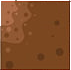
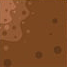
new bricks ready

diff --git a/game.py b/game.py
@@ -56,7 +56,7 @@ class Other(pygame.sprite.Sprite):
 	def show(self):
 		if self.visible:
 			global screen,camera
-			screen.blit(self.imgs[int(self.count/12)],(self.rect.x-camera[0],self.rect.y-camera[1],50,50))
+			screen.blit(self.imgs[int(self.count*len(self.imgs)/60)],(self.rect.x-camera[0],self.rect.y-camera[1],50,50))
 class Wall(pygame.sprite.Sprite):
 	def __init__(self,color,blocks,bricksize):
 		super().__init__()
@@ -70,12 +70,85 @@ class Wall(pygame.sprite.Sprite):
 		self.blocks=blocks
 	def show(self):
 		global screen,camera,bricksize,brickimgs
-		for i in range(self.blocks[2]):
-			for j in range(self.blocks[3]):
-				# found=False
-				# for b in earth:
-				# 	if self.blocks[0]-1>b[0] and self.blocks[0]+self.blocks
-				screen.blit(brickimgs[1],(self.rect.x+i*bricksize-camera[0],self.rect.y+j*bricksize-5-camera[1],bricksize,bricksize+5))
+		if self.blocks[3]==1:
+			if self.blocks[2]==1:
+				screen.blit(brickimgs[14],(self.rect.x+i*bricksize-camera[0],self.rect.y-camera[1],bricksize,bricksize))
+			else:
+				for i in range(self.blocks[2]):
+					if i==0:
+						img=brickimgs[13]
+					elif i==self.blocks[2]-1:
+						img=brickimgs[15]
+					else:
+						img=brickimgs[14]
+					screen.blit(img,(self.rect.x+i*bricksize-camera[0],self.rect.y-camera[1],bricksize,bricksize))
+		else:
+			for i in range(self.blocks[3]):
+				for j in range(self.blocks[2]):
+					img=brickimgs[4]
+					if i==0:
+						img=brickimgs[1]
+						if j==0:
+							img=brickimgs[0]
+							for b in earth:
+								if self.blocks[0]==b[0]+b[2]:
+									if self.blocks[1]==b[1]:
+										img=brickimgs[1]
+									elif self.blocks[1]<b[1]:
+										img=brickimgs[0]
+									else:
+										img=brickimgs[12]
+									break
+						elif j==self.blocks[2]-1:
+							img=brickimgs[2]
+							for b in earth:
+								if self.blocks[0]+self.blocks[2]==b[0]:
+									if self.blocks[1]==b[1]:
+										img=brickimgs[1]
+									elif self.blocks[1]<b[1]:
+										img=brickimgs[2]
+									else:
+										img=brickimgs[9]
+									break
+					elif i==self.blocks[3]-1:
+						if j==0:
+							img=brickimgs[6]
+							for b in earth:
+								if self.blocks[0]==b[0]+b[2]:
+									if self.blocks[1]+self.blocks[3]==b[1]+b[3]:
+										img=brickimgs[7]
+									elif self.blocks[1]+self.blocks[3]>b[1]+b[3]:
+										img=brickimgs[6]
+									else:
+										img=brickimgs[10]
+						elif j==self.blocks[2]-1:
+							img=brickimgs[8]
+							for b in earth:
+								if self.blocks[0]+self.blocks[2]==b[0]:
+									if self.blocks[1]+self.blocks[3]==b[1]+b[3]:
+										img=brickimgs[7]
+									elif self.blocks[1]+self.blocks[3]>b[1]+b[3]:
+										img=brickimgs[8]
+									else:
+										img=brickimgs[7]
+						else:
+							img=brickimgs[7]
+					else:
+						if j==0:
+							img=brickimgs[3]
+							for b in earth:
+								if self.blocks[0]==b[0]+b[2]:
+									if self.blocks[1]+i==b[1]:
+										img=brickimgs[10]
+										break
+						elif j==self.blocks[2]-1:
+							img=brickimgs[5]
+							for b in earth:
+								if self.blocks[0]+self.blocks[2]==b[0]:
+									if self.blocks[1]+i==b[1]:
+										img=brickimgs[11]
+										break
+					screen.blit(img,(self.rect.x+j*bricksize-camera[0],self.rect.y+i*bricksize-camera[1],bricksize,bricksize))
 		# pygame.draw.rect(screen,self.color,[self.rect.x-camera[0],self.rect.y-camera[1],self.rect.width,self.rect.height])
 
 player=Player("main",(255,0,0),60,100)
@@ -95,6 +168,13 @@ for i in range(7):
 	im=pygame.image.load('character'+os.path.sep+'jump'+str(i+1)+'.png')
 	# im=pygame.transform.scale(im,(player.rect.width,player.rect.height))
 	jump.append(im)
+
+bushes=[]
+im=pygame.image.load('grass0.png')
+im=pygame.transform.scale(im,(coinsize*3,coinsize*2))
+bushes.append(im)
+grass=Other("grass",(0,0,0),990,370,coinsize*3,bushes)
+all_blocks.add(grass)
 
 coins=[]
 for i in range(5):
@@ -119,7 +199,7 @@ flowerimg=pygame.image.load('flower.png')
 flowerimg=pygame.transform.scale(flowerimg,(30,30))
 flowerimgrect=flowerimg.get_rect()
 flowerimgrect.x=740
-flowerimgrect.y=85
+flowerimgrect.y=90
 
 brickimgs=[]
 for i in range(16):
@@ -172,10 +252,11 @@ def collisions():
 					player.vx=0
 					player.rect.x=b.rect.x+b.rect.width
 		elif isinstance(b,Other):
-			b.visible=False
-			all_blocks.remove(b)
-			del b
-			coingain.play()
+			if not b.name=="grass":
+				b.visible=False
+				all_blocks.remove(b)
+				del b
+				coingain.play()
 while running:
 	for e in pygame.event.get():
 		if e.type == pygame.QUIT:
